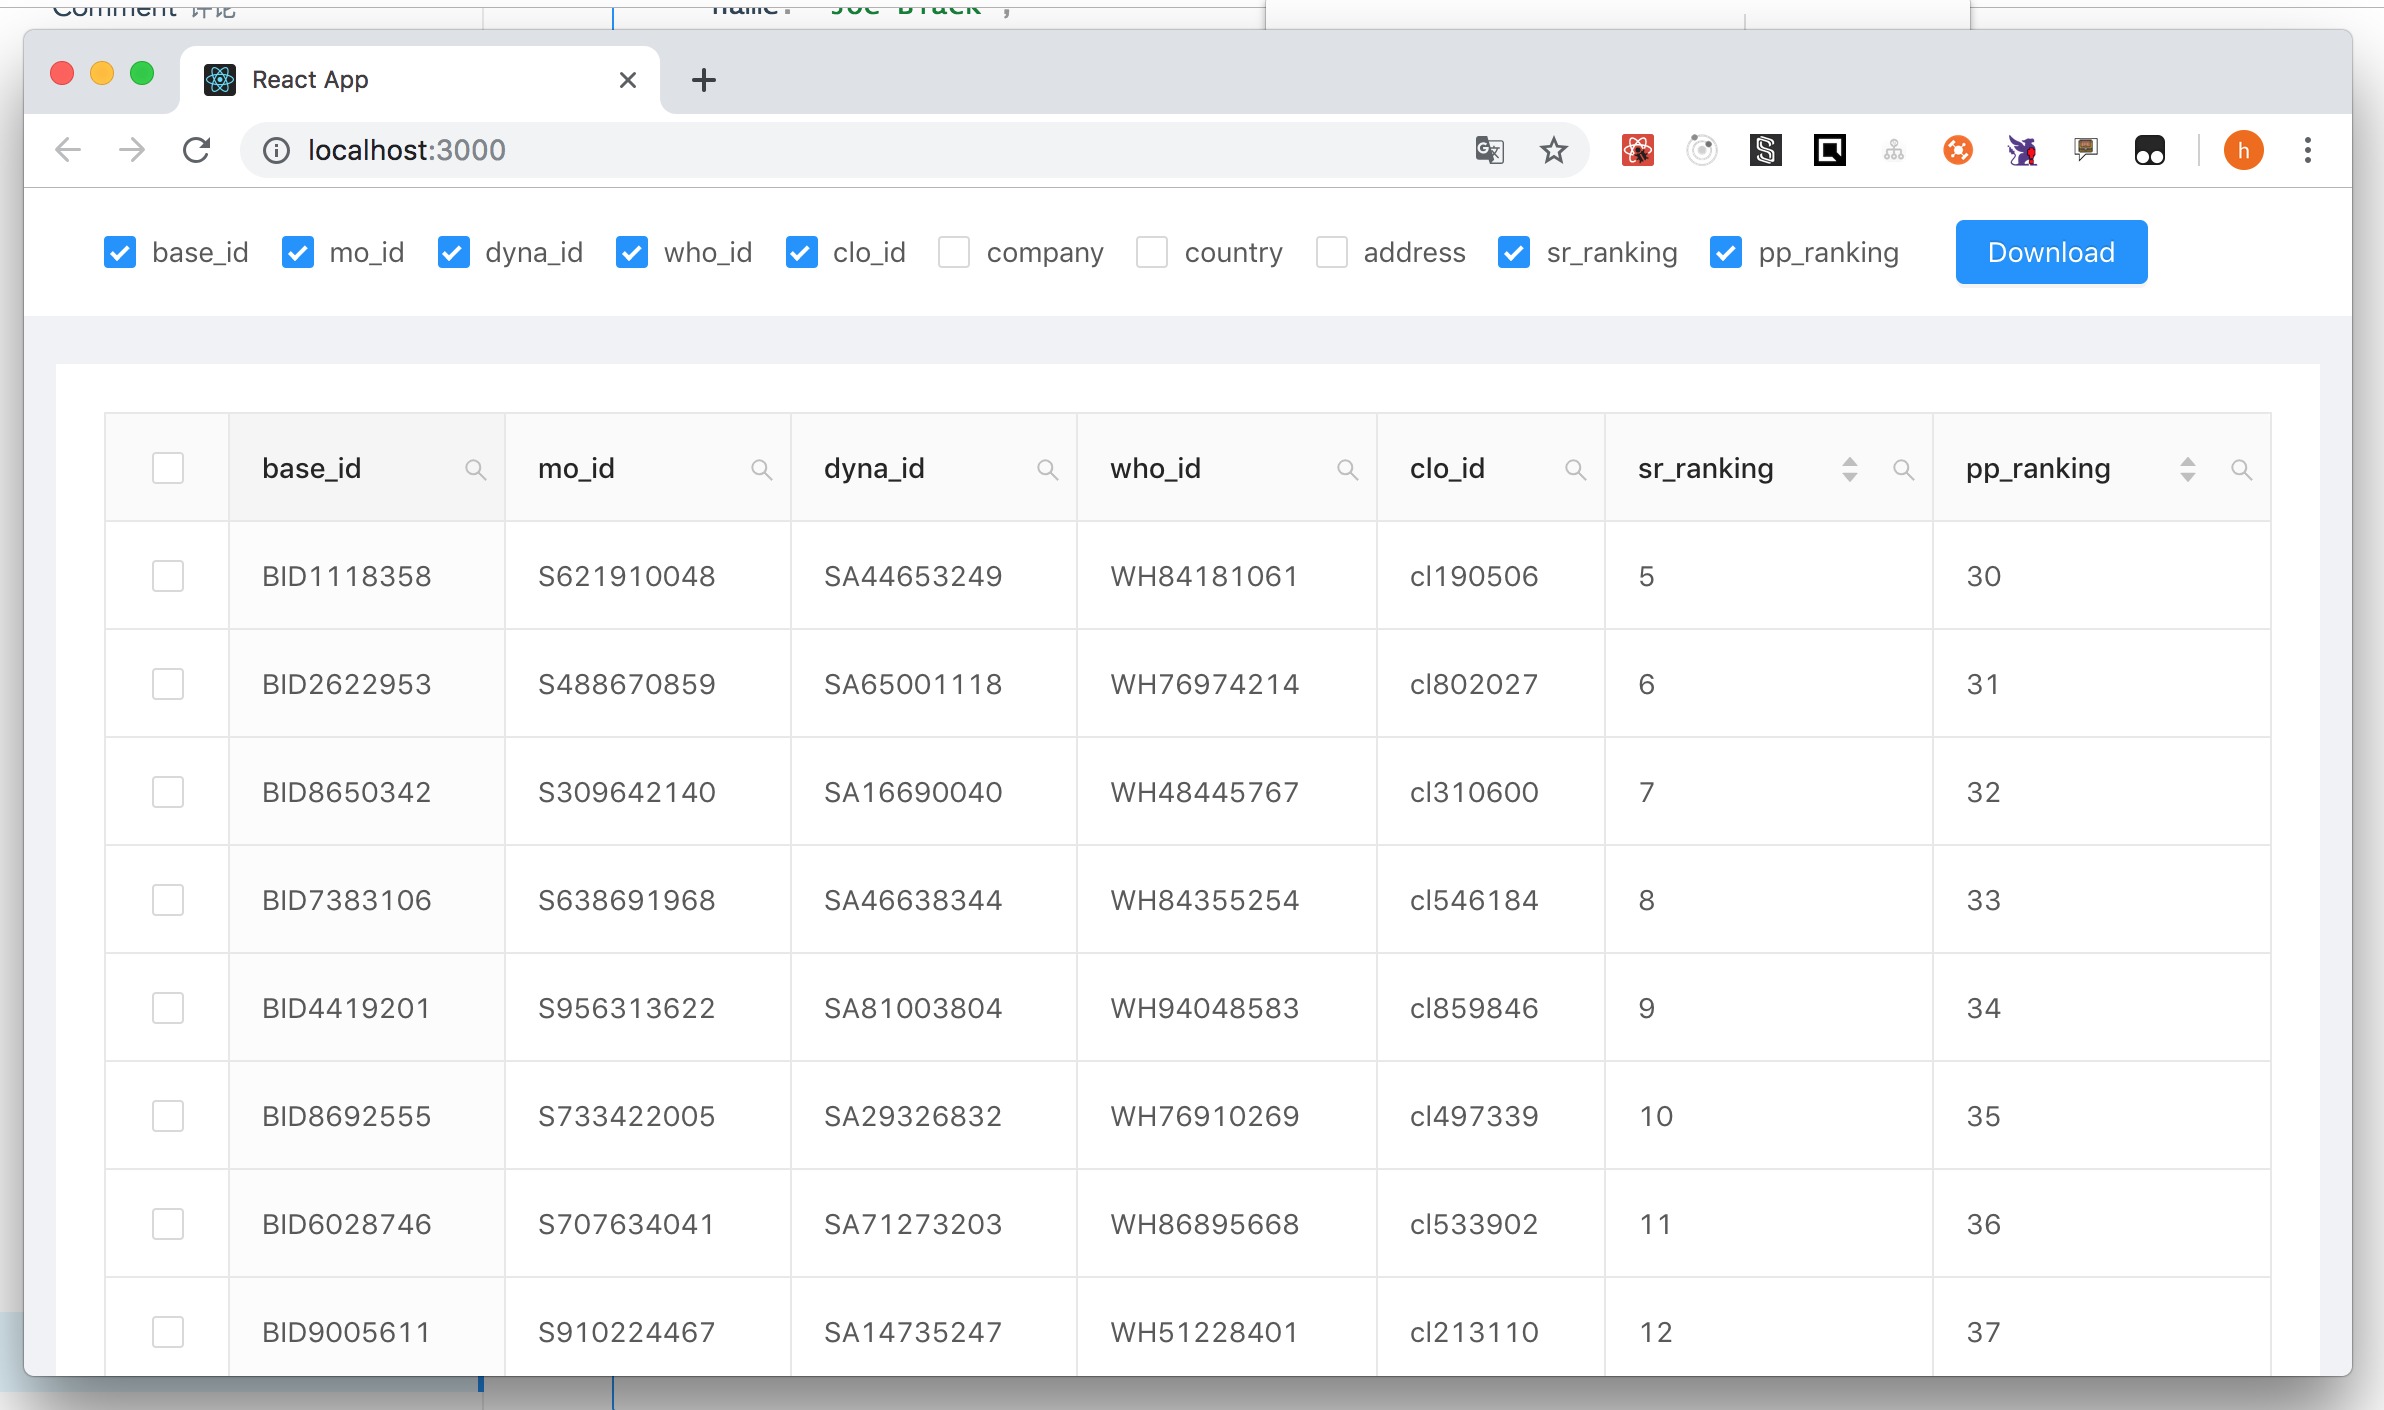
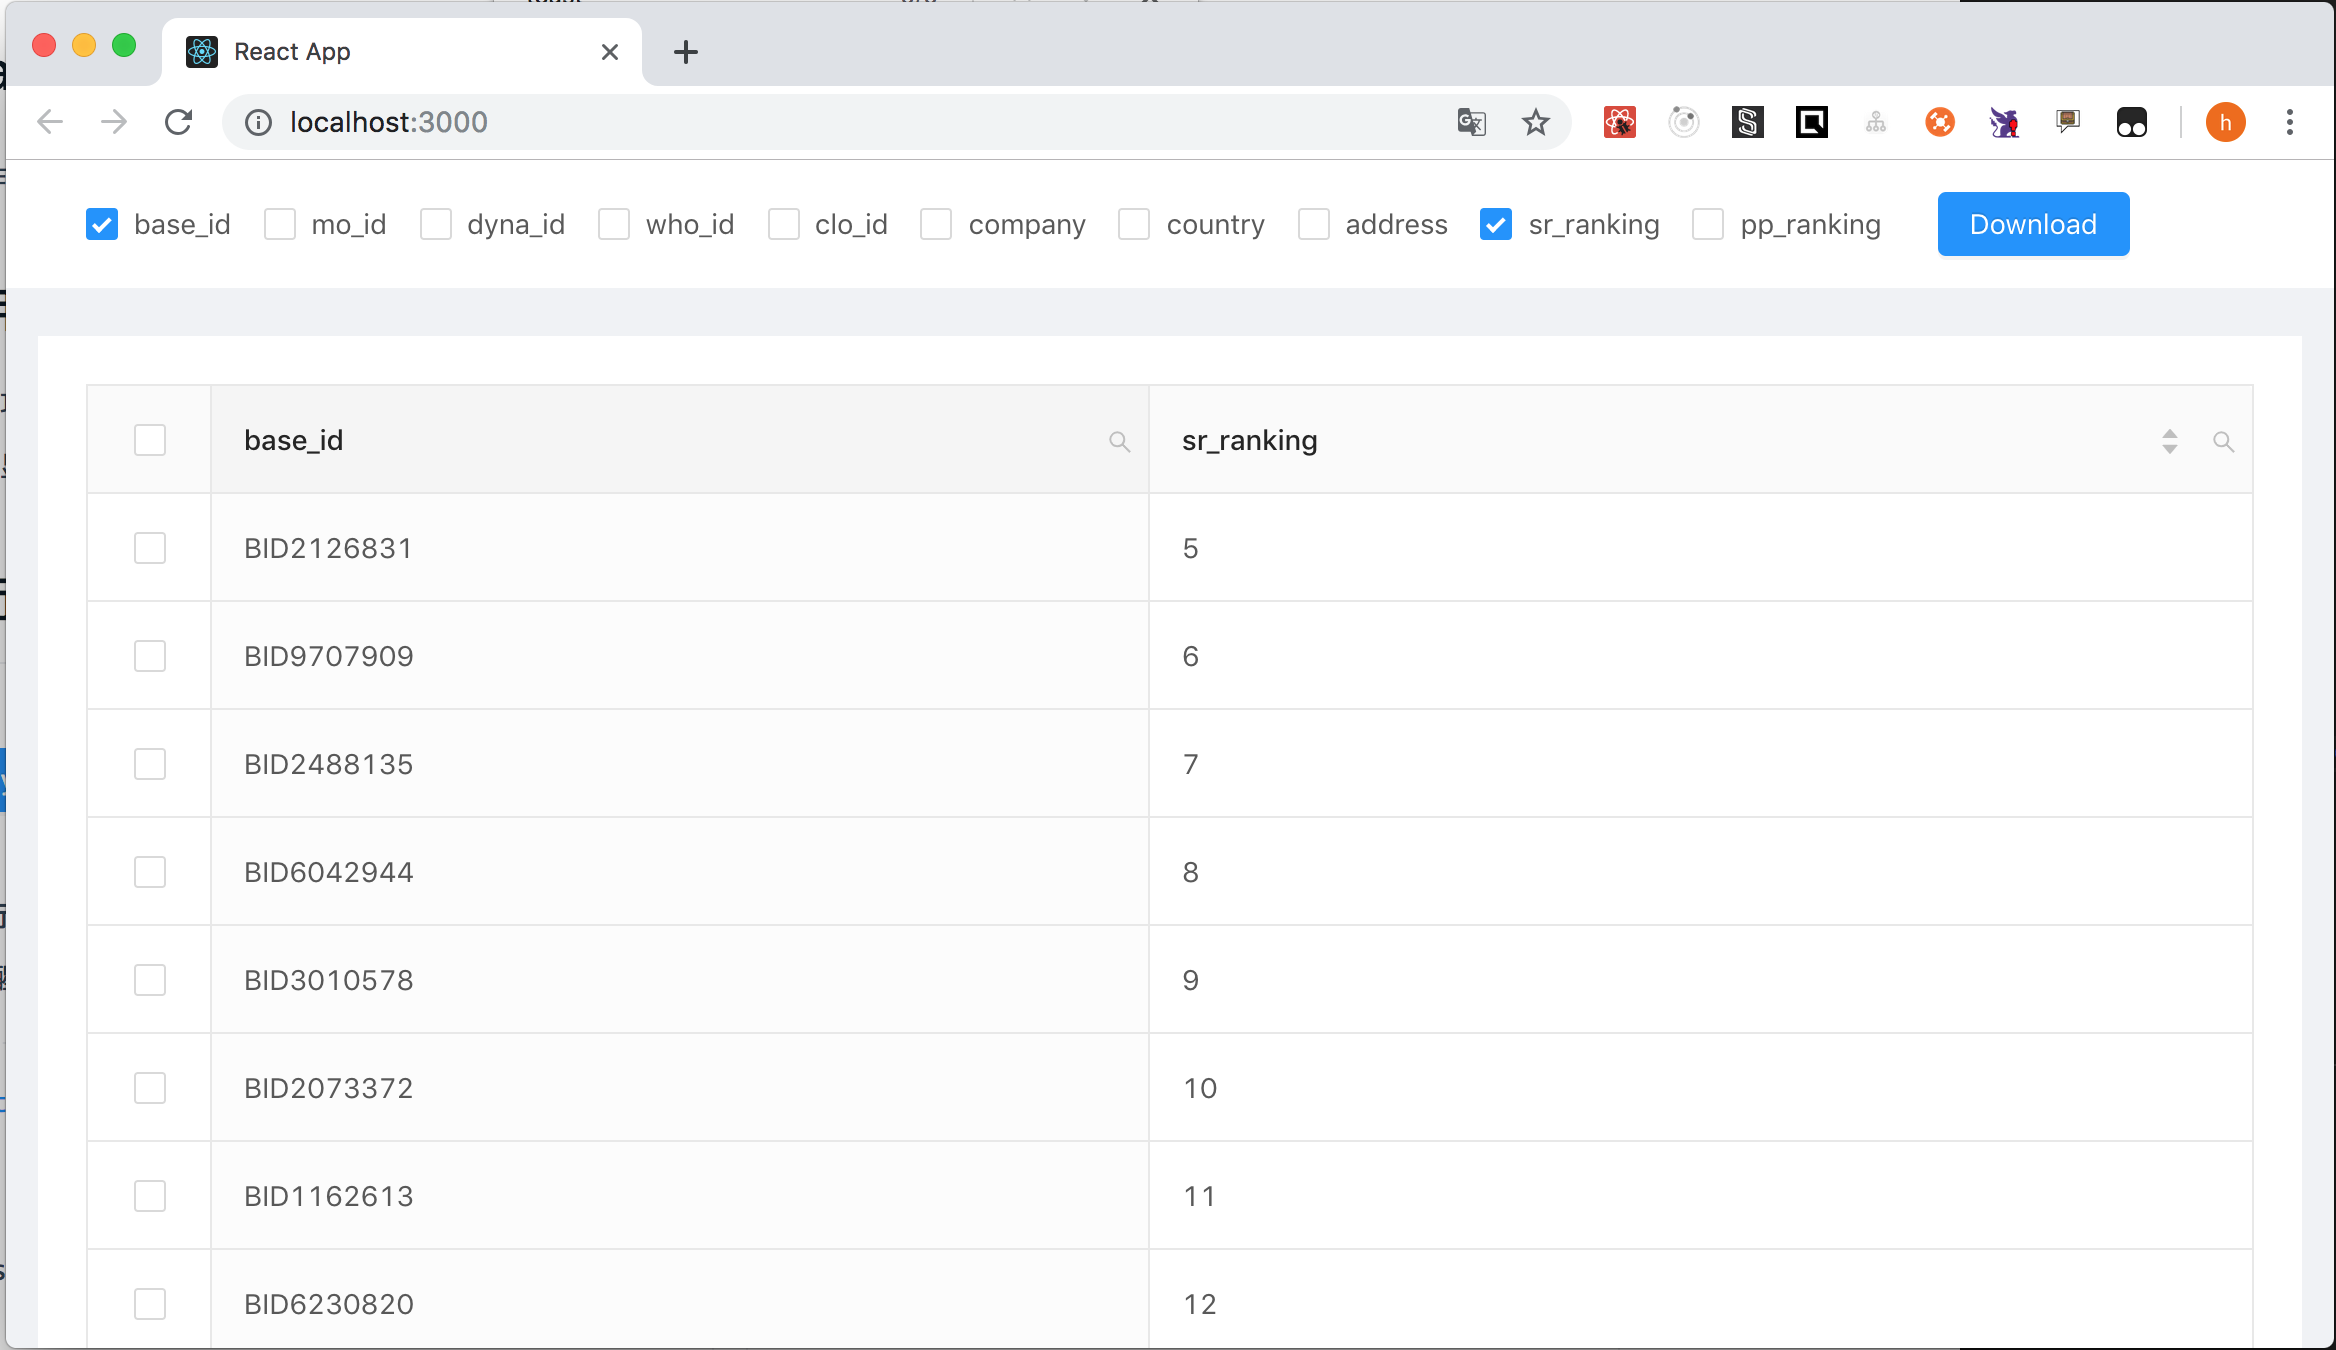
feat: update default key

diff --git a/src/components/ColumnSelector.js b/src/components/ColumnSelector.js
@@ -22,7 +22,7 @@ render() {
     })
     return (
         <div className="ColumnSelector">
-                <CheckboxGroup options={plainOptions} defaultValue={['base_id']} onChange={this.handleToggleColumn} />
+                <CheckboxGroup options={plainOptions} defaultValue={['base_id', 'sr_ranking']} onChange={this.handleToggleColumn} />
                 {this.props.children}
          {/* {this.props.allColumns.map(column => (
             <div className="Selector">

diff --git a/src/reducers/DataReducer.js b/src/reducers/DataReducer.js
@@ -10,7 +10,7 @@ const INITIAL_STATE = {
 
     data: getRandomData(5000),
     allColumns: ['base_id', 'mo_id', 'dyna_id', 'who_id', 'clo_id', 'company', 'country', 'address', 'sr_ranking', 'pp_ranking'],
-    selectedColumns: ['base_id']
+    selectedColumns: ['base_id', 'sr_ranking']
 }
 
 

diff --git a/README.md b/README.md
@@ -29,5 +29,8 @@ Open `http://localhost:3000`, you will see the page !
 - 1.Select title to view table
 - 2.Download data for xls file
 - 3.Search key to find data. can set more kind of key
-- 4.Pagination
+- 4.some key can rank up and down
+ 
+- 5.Pagination
 <img src="https://marpts.github.io/Table-task/src/Pagination.png" width="200px" >
+
